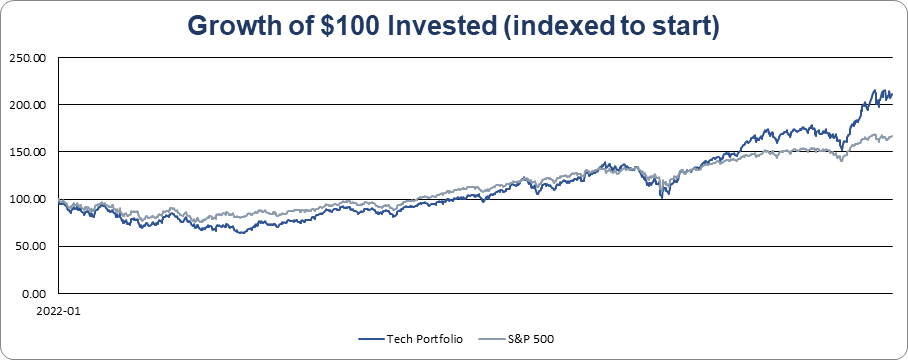
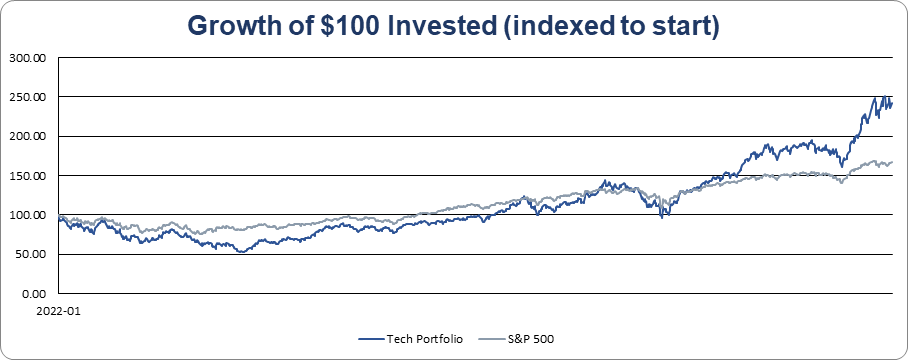
Exclude SPY from portfolio; tidy Excel labels and column widths

diff --git a/README.md b/README.md
@@ -14,11 +14,11 @@ pain* and zero research effort.
 
 | Metric | Tech Portfolio | S&P 500 | Takeaway |
 |---|---:|---:|---|
-| Annualized return (CAGR) | **18.1%** | 12.1% | Tech won on raw return |
-| Annualized volatility | 24.6% | **17.6%** | Index was far calmer |
-| Sharpe ratio (rf = 2%) | **0.65** | 0.57 | Tech edged it, risk-adjusted |
-| Max drawdown | −36.2% | **−24.5%** | Index fell about half as far |
-| Growth of $100 | **$211** | $167 | — |
+| Annualized return (CAGR) | **21.7%** | 12.1% | Tech won on raw return |
+| Annualized volatility | 30.7% | **17.6%** | Index was far calmer |
+| Sharpe ratio (rf = 2%) | **0.64** | 0.57 | Tech edged it, risk-adjusted |
+| Max drawdown | −47.8% | **−24.5%** | Index fell about half as far |
+| Growth of $100 | **$242** | $167 | — |
 
 ## Charts
 
@@ -40,7 +40,7 @@ pain* and zero research effort.
 2. **SQL structuring** — window functions turn raw prices into a clean metrics series:
    - `LAG()` for the previous day's value → daily returns
    - a running `MAX() OVER (... ROWS UNBOUNDED PRECEDING)` for the peak → the drawdown series
-   - See [`sql/portfolio_risk_metrics.sql`](sql/portfolio_risk_metrics.sql).
+   - See [`sql/`](sql/) — `createtable.sql`, `dailyreturnpct.sql`, `drawdown.sql`.
 3. **Excel** — the structured series feed live-formula risk metrics: CAGR, annualized volatility
    (daily-return stdev × √252), Sharpe vs. a 2% risk-free rate, and max drawdown. See
    [`excel/Portfolio_Risk_Analysis.xlsx`](excel/Portfolio_Risk_Analysis.xlsx).
@@ -62,7 +62,9 @@ portfolio-risk-analysis/
 ├── data/
 │   └── holdings.csv                 # tickers + share counts
 ├── sql/
-│   └── portfolio_risk_metrics.sql   # daily + monthly + headline metrics (window functions)
+│   ├── createtable.sql              # builds the holdings table
+│   ├── dailyreturnpct.sql           # daily portfolio value + daily returns (LAG)
+│   └── drawdown.sql                 # drawdown from running peak (MAX window)
 ├── excel/
 │   └── Portfolio_Risk_Analysis.xlsx # Summary, Charts, Holdings, daily data, monthly returns
 └── images/
@@ -78,8 +80,8 @@ portfolio-risk-analysis/
   market cap as of the start date, held fixed).
 - **Buy-and-hold, no rebalancing**, no transaction costs, no dividends reinvested on the single
   names.
-- The SQL is a faithful reconstruction of the original pipeline (the original query wasn't kept);
-  it reproduces the exact columns in the workbook but assumes a `prices` / `holdings` schema.
+- **Portfolio excludes SPY.** SPY is used only as the benchmark, not counted as a holding — so the
+  portfolio is the 9 stock picks alone, compared against the S&P 500.
 
 ## Tools
 